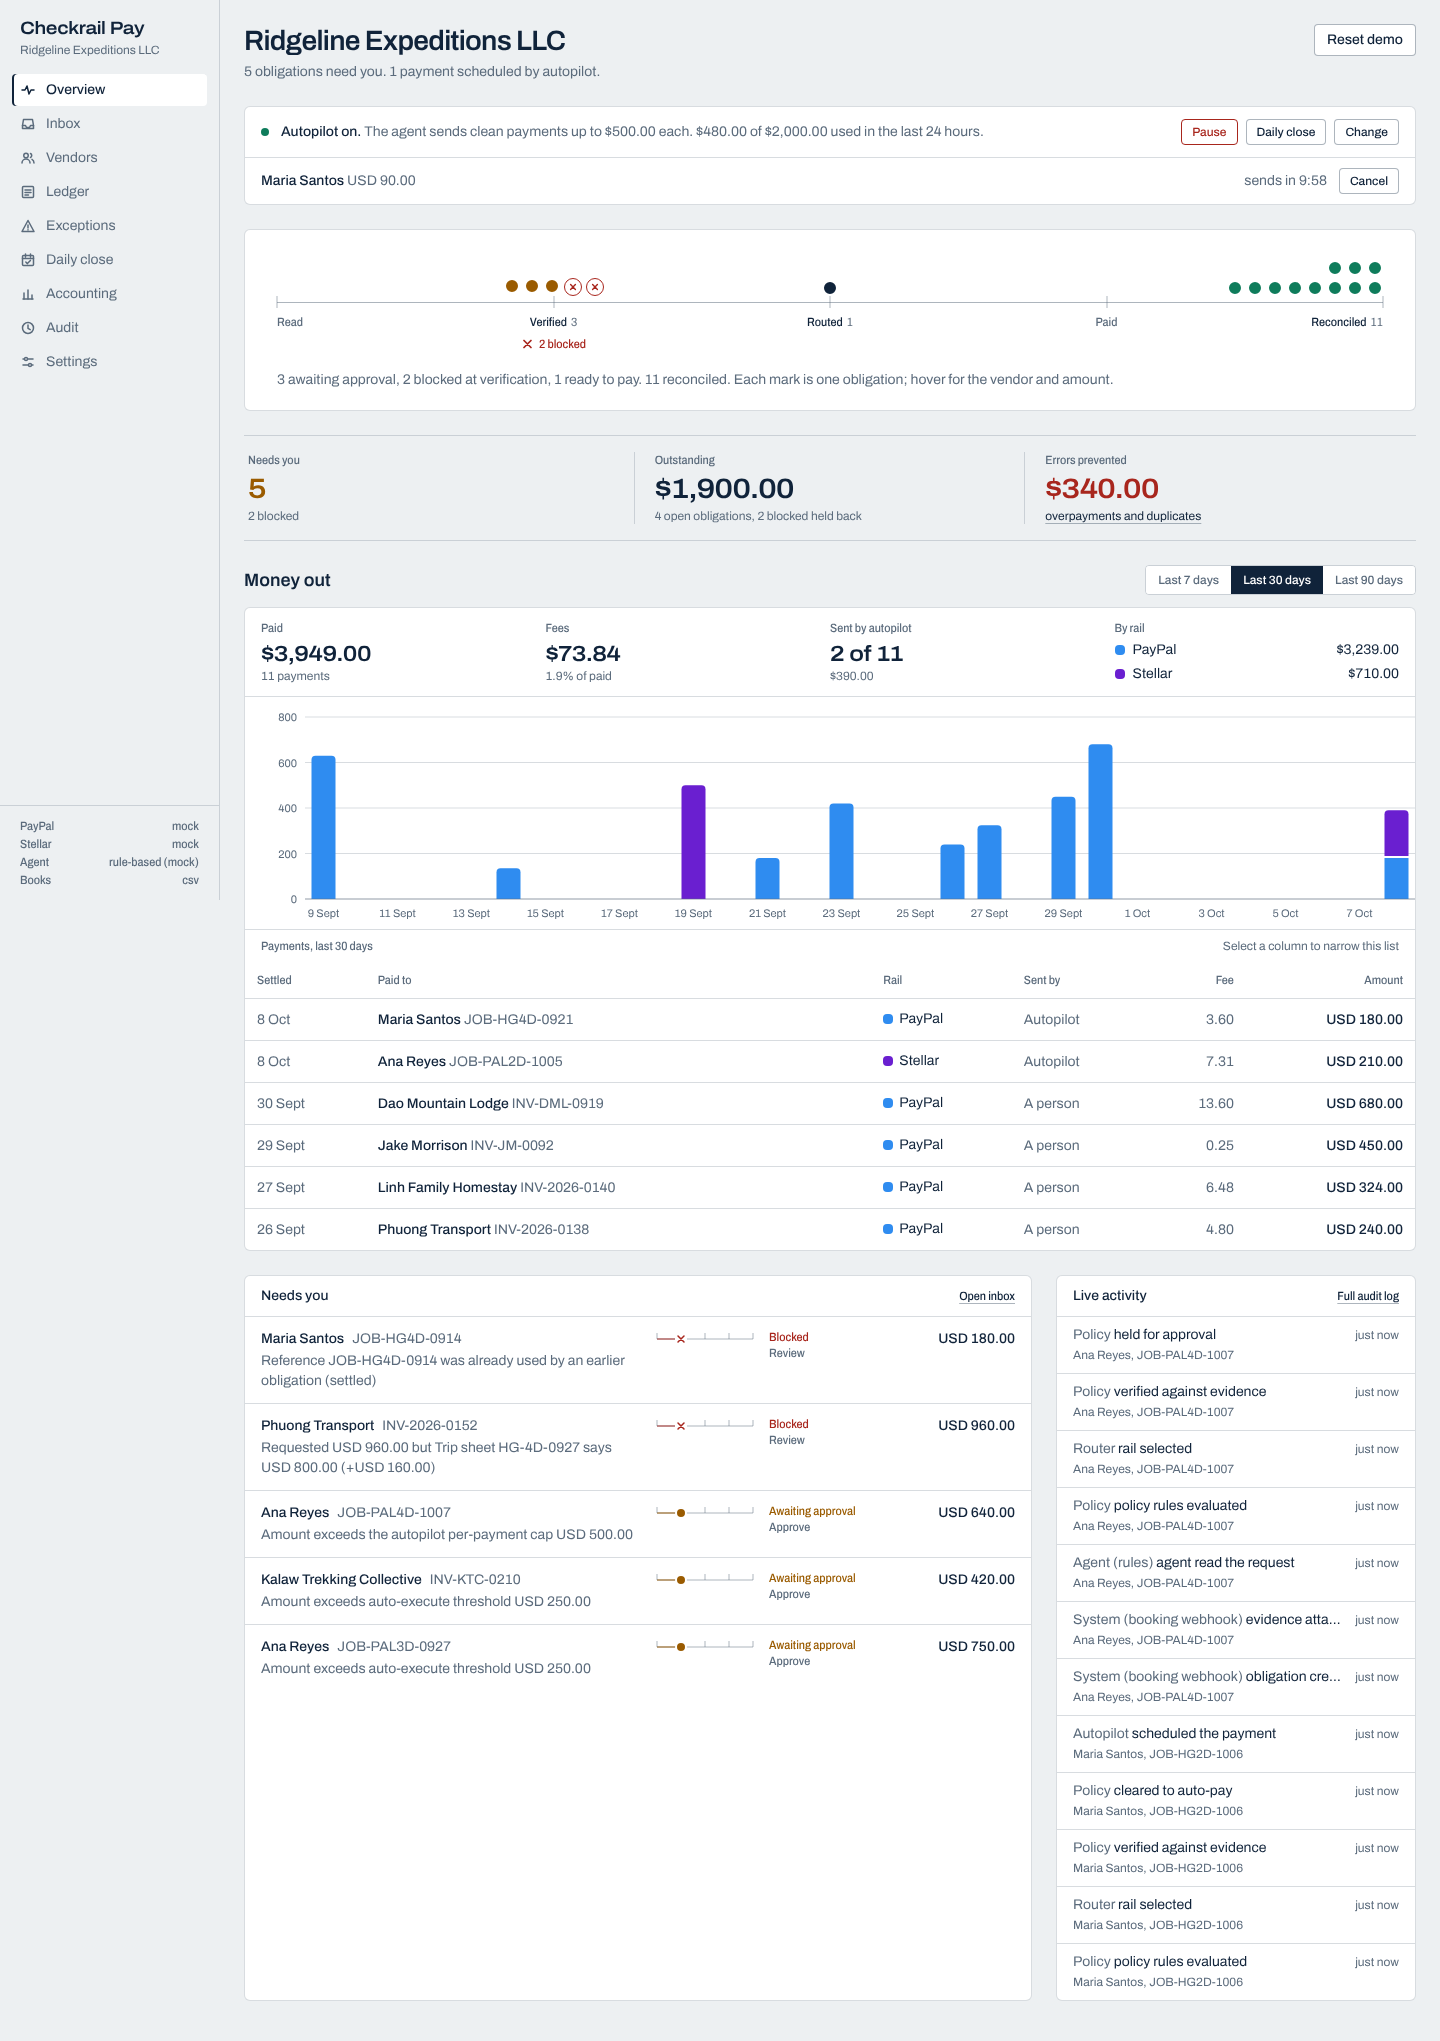
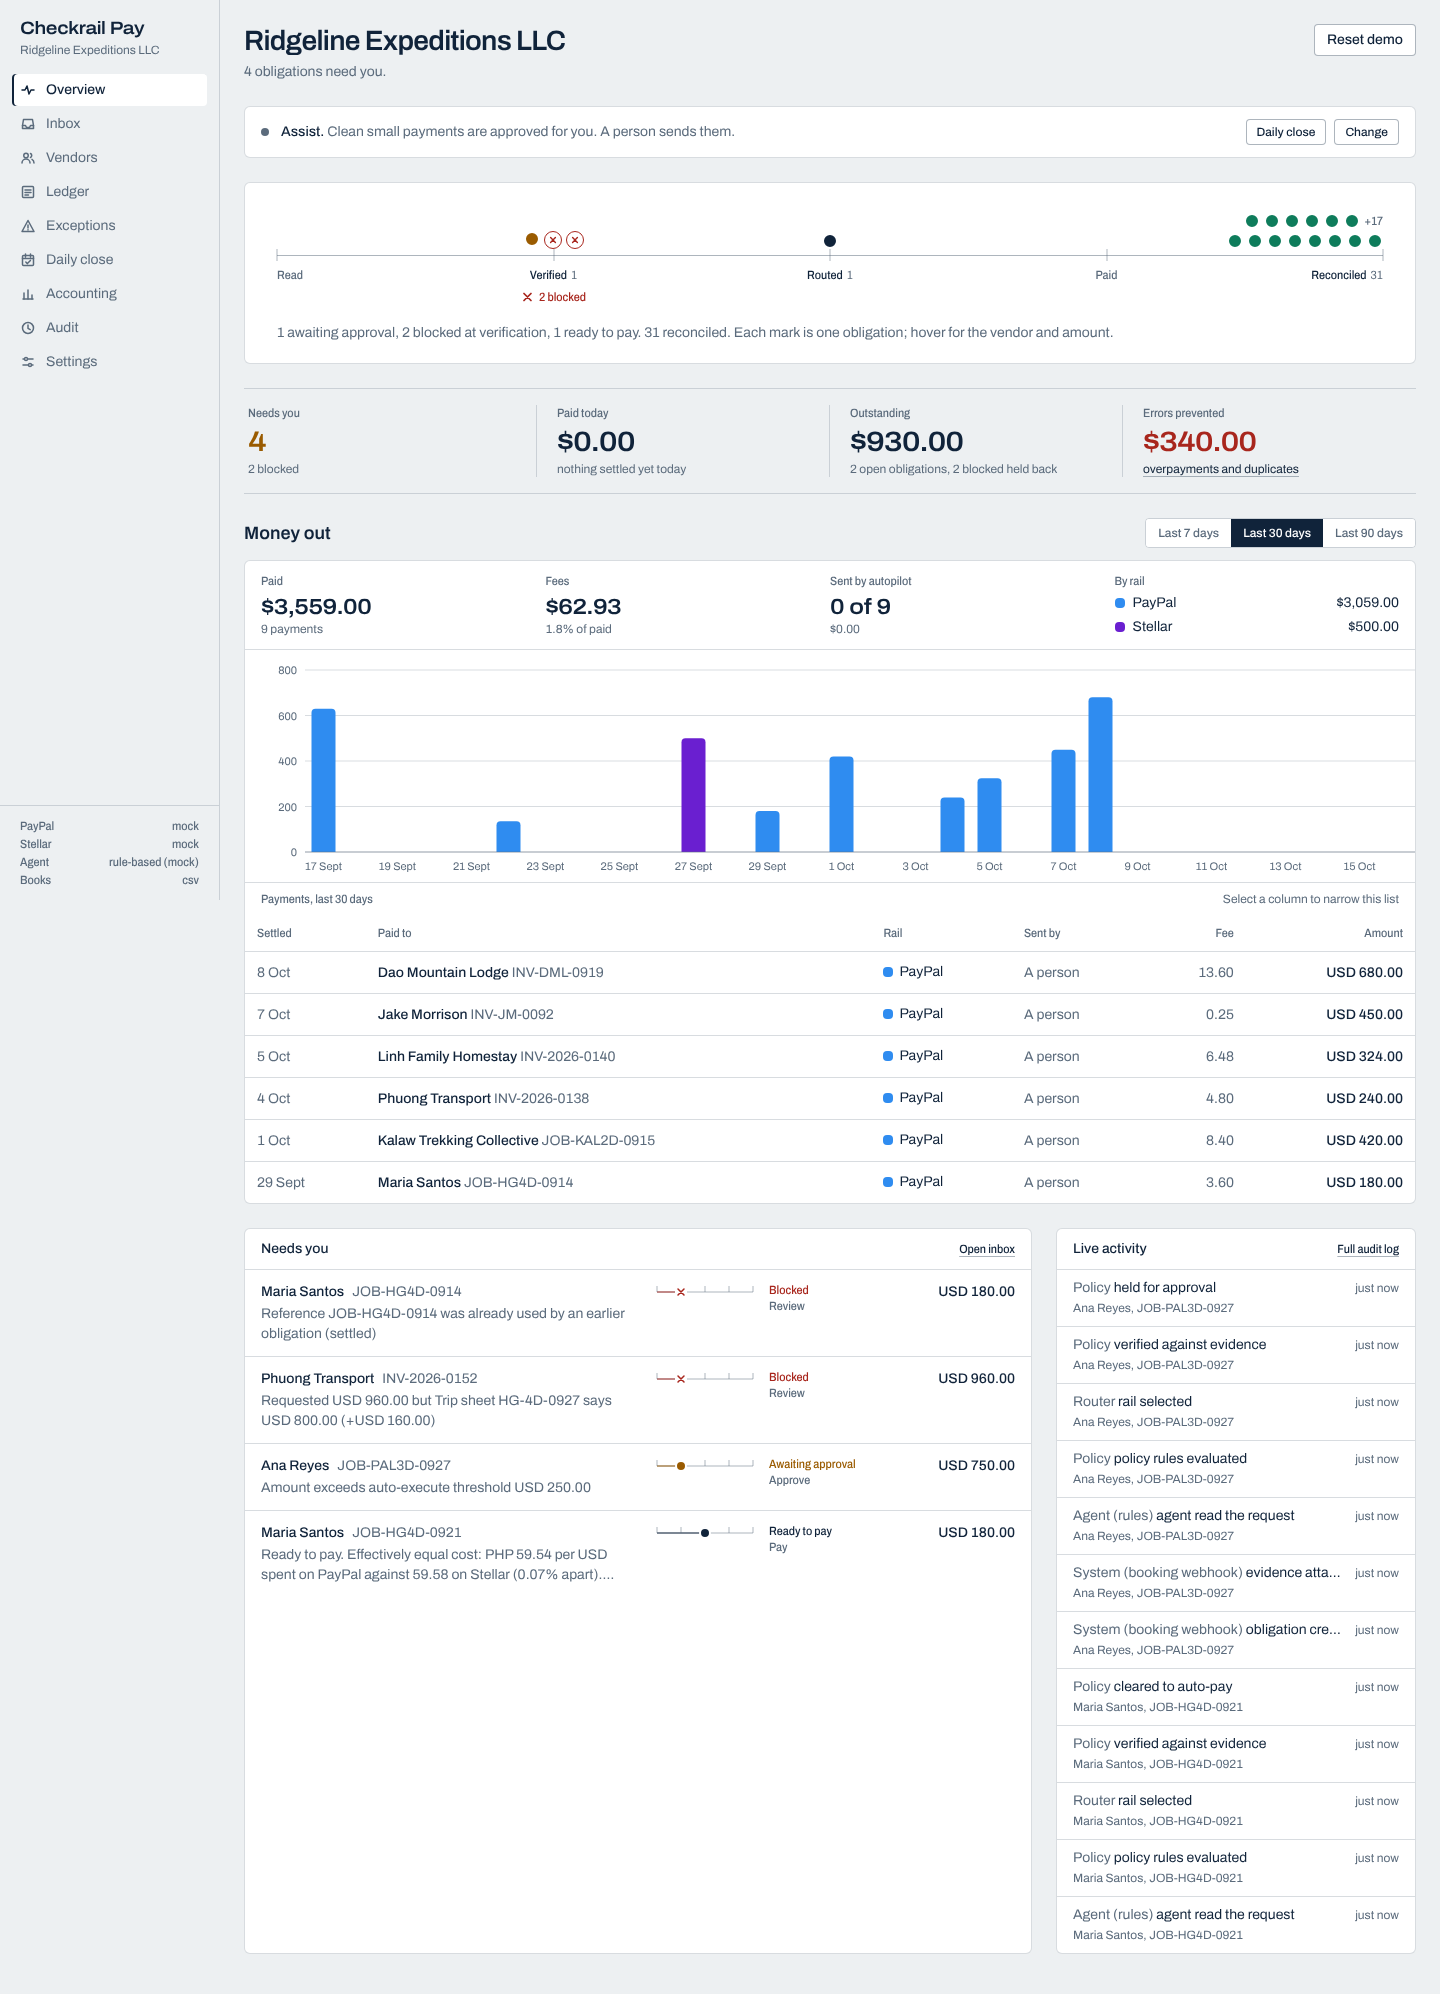
Paid today figure, Daily close and Settings in phone nav, approval context box on held and blocked payments
Claude-Session: https://claude.ai/code/session_01MTjiEbPDzj6LCPphPSyj3U

diff --git a/src/app/obligations/[id]/page.tsx b/src/app/obligations/[id]/page.tsx
@@ -186,6 +186,17 @@ export default async function ObligationPage({ params }: { params: Promise<{ id:
             <p className="mt-3 border-t pt-2 text-xs text-ink-soft hairline">The agent proposes. It has no authority to pay.</p>
           </Panel>
 
+          {["awaiting_approval", "blocked", "needs_evidence"].includes(o.state) ? (
+            <Panel title="What you are deciding" aside="at a glance">
+              <ApprovalContext
+                ask={formatMoney(o.amountMinor, o.currency)}
+                evidence={d.evidence.filter((e) => e.amountMinor !== null).map((e) => `${e.label}: ${formatMoney(e.amountMinor, e.currency)}`)}
+                destination={d.vendor ? [d.vendor.name, o.selectedRail === "stellar" ? `Stellar ${truncateMiddle(d.vendor.stellarAccount, 6)}` : d.vendor.paypalEmail ? `PayPal ${d.vendor.paypalEmail}` : "no payout method on file", d.vendor.verifiedAt ? `details verified ${formatDate(d.vendor.verifiedAt)}` : "details never verified"].join(", ") : "Unknown vendor"}
+                route={(() => { const q = d.quotes.find((x) => x.rail === o.selectedRail && x.available); return q ? `${railLabel(q.rail)}, recipient gets ${formatMoney(q.receiveAmountMinor, q.receiveCurrency)}, fee ${formatMoney(q.feeMinor, q.sendCurrency)}` : "no route yet"; })()}
+                why={o.blockedReason ?? d.policyReasons[0] ?? (o.state === "needs_evidence" ? "No evidence attached" : "")}
+              />
+            </Panel>
+          ) : null}
           <Panel title="Policy" aside={o.policyDecision ? decisionText(o.policyDecision) : null}>
             <RuleChecklist rules={d.policyRules} />
             {o.blockedReason ? (
@@ -352,4 +363,23 @@ function shortReason(reason: string): string {
   const m = reason.match(/says ([A-Z]{3} [\d,]+\.\d{2})/);
   if (m) return `evidence says ${m[1]}`;
   return reason.length > 48 ? reason.slice(0, 45) + "…" : reason;
+}
+
+/** The four facts an approver needs side by side: what was asked, what the evidence says, where the money goes, and what it costs. */
+function ApprovalContext({ ask, evidence, destination, route, why }: { ask: string; evidence: string[]; destination: string; route: string; why: string }) {
+  return (
+    <div>
+      <dl className="grid grid-cols-[auto_1fr] gap-x-4 gap-y-2">
+        <dt className="dense text-ink-soft">Asked for</dt>
+        <dd className="num font-medium">{ask}</dd>
+        <dt className="dense text-ink-soft">Evidence says</dt>
+        <dd className="num">{evidence.length ? evidence.join("; ") : <span className="text-attention">nothing with an amount</span>}</dd>
+        <dt className="dense text-ink-soft">Goes to</dt>
+        <dd>{destination}</dd>
+        <dt className="dense text-ink-soft">Route</dt>
+        <dd>{route}</dd>
+      </dl>
+      {why ? <p className="mt-3 border-t pt-3 text-attention hairline">{why}</p> : null}
+    </div>
+  );
 }

diff --git a/src/lib/queries.ts b/src/lib/queries.ts
@@ -161,6 +161,8 @@ export function getOverview(db: Db = getDb()) {
   const thirtyDays = now - 30 * 86_400_000;
   const settled = listSettlements(db);
   const settledRecent = settled.filter((s) => new Date(s.settledAt).getTime() >= thirtyDays);
+  const startOfToday = new Date(); startOfToday.setHours(0, 0, 0, 0);
+  const settledToday = settled.filter((s) => new Date(s.settledAt).getTime() >= startOfToday.getTime());
   const blocked = all.filter((r) => r.state === "blocked");
   const byRail = (rail: Rail) => settledRecent.filter((s) => s.rail === rail);
   const feesByRail = (rail: Rail) => byRail(rail).reduce((a, s) => a + s.feeMinor, 0);
@@ -194,6 +196,8 @@ export function getOverview(db: Db = getDb()) {
       outstandingMinor: sum(all.filter((r) => openStates.includes(r.state as ObligationState))),
       dueSoonMinor: sum(all.filter((r) => openStates.includes(r.state as ObligationState) && r.dueDate && new Date(r.dueDate).getTime() <= now + 7 * 86_400_000)),
       paid30dMinor: settledRecent.reduce((a, s) => a + s.grossMinor, 0),
+      paidTodayMinor: settledToday.reduce((a, s) => a + s.grossMinor, 0),
+      paidTodayCount: settledToday.length,
       fees30dMinor: settledRecent.reduce((a, s) => a + s.feeMinor, 0),
       blockedMinor: sum(blocked),
       preventedMinor: blocked.reduce((a, r) => a + mismatchDelta(r), 0),

diff --git a/src/app/page.tsx b/src/app/page.tsx
@@ -36,8 +36,9 @@ export default function OverviewPage() {
 
       <BookLine rows={all} />
 
-      <dl className="mt-6 grid grid-cols-1 gap-y-4 border-y hairline py-4 sm:grid-cols-3 sm:divide-x sm:divide-[color:var(--rule)]">
+      <dl className="mt-6 grid grid-cols-2 gap-y-4 border-y hairline py-4 sm:grid-cols-4 sm:divide-x sm:divide-[color:var(--rule)]">
         <Figure label="Needs you" value={String(o.counts.needsAction)} note={o.counts.blocked ? `${o.counts.blocked} blocked` : "none blocked"} tone={o.counts.needsAction ? "attention" : undefined} />
+        <Figure label="Paid today" value={formatMoneySymbol(o.money.paidTodayMinor, base)} note={o.money.paidTodayCount ? pluralise(o.money.paidTodayCount, "payment") : "nothing settled yet today"} tone={o.money.paidTodayCount ? "settled" : undefined} />
         <Figure label="Outstanding" value={formatMoneySymbol(o.money.outstandingMinor, base)} note={`${pluralise(o.counts.open, "open obligation")}, ${o.counts.blocked} blocked held back`} />
         <Figure label="Errors prevented" value={formatMoneySymbol(o.money.preventedMinor, base)} note={<Link href="/exceptions" className="link">overpayments and duplicates</Link>} tone={o.money.preventedMinor ? "blocked" : undefined} />
       </dl>

diff --git a/src/components/NavLinks.tsx b/src/components/NavLinks.tsx
@@ -10,7 +10,7 @@ export function NavLinks({ items, mobile = false }: { items: readonly Item[]; mo
   const isActive = (href: string) => (href === "/" ? path === "/" : path === href || path.startsWith(href + "/"));
 
   if (mobile) {
-    const shown = items.filter((i) => ["/", "/obligations", "/vendors", "/ledger", "/exceptions"].includes(i.href));
+    const shown = items.filter((i) => ["/", "/obligations", "/close", "/exceptions", "/settings"].includes(i.href));
     return (
       <ul className="grid grid-cols-5">
         {shown.map((it) => {
